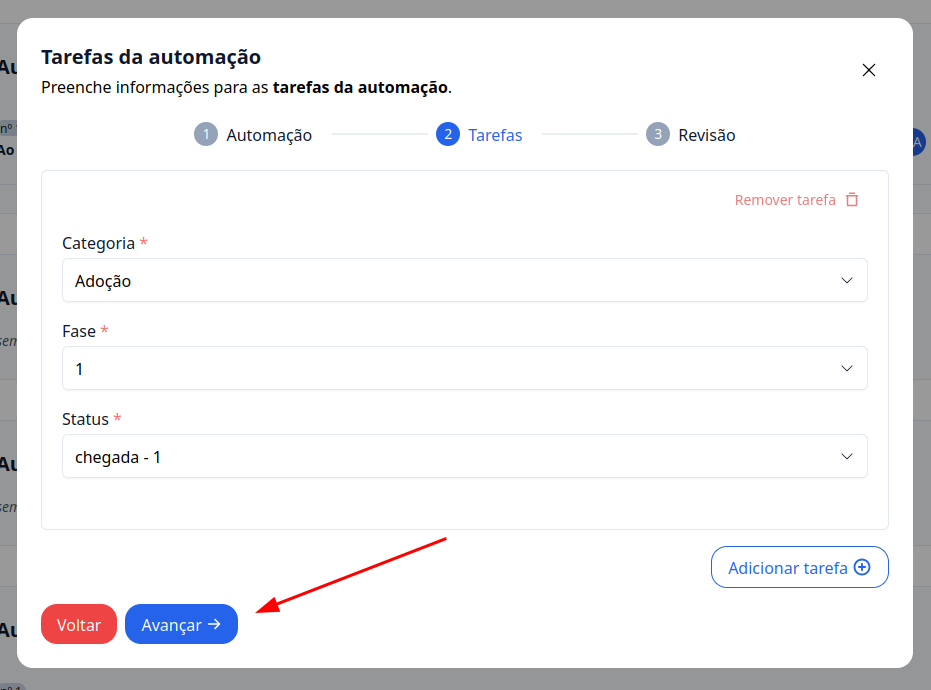
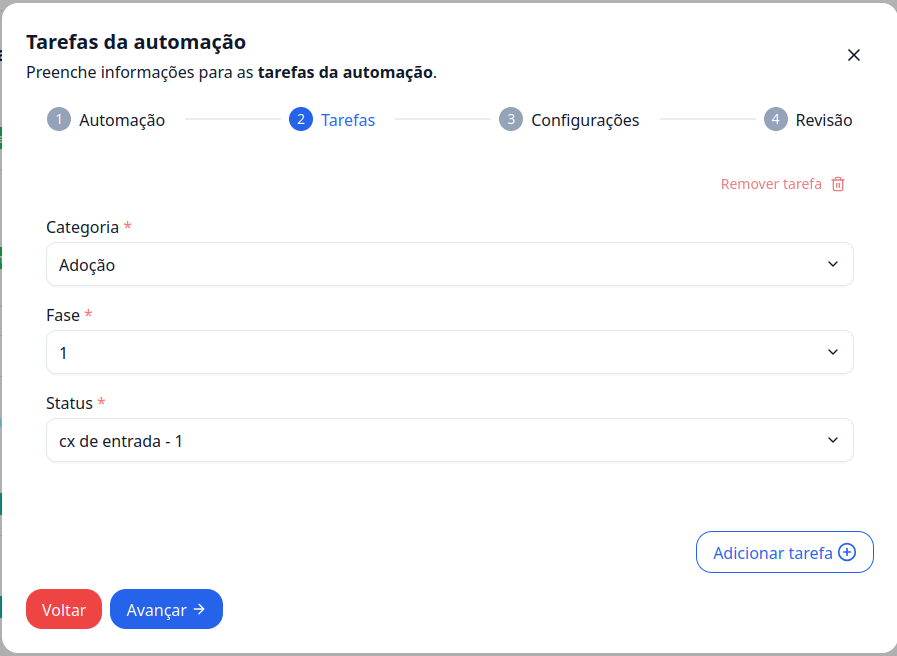
feat: improving automations processes tutorial.8705797639

diff --git a/docs/tutoriais-artigo/process-management/automations.md b/docs/tutoriais-artigo/process-management/automations.md
@@ -50,15 +50,27 @@ Clique no botão **Avançar** para continuar.
 
 ### 4. Definição de Tarefas
 
-Selecione a **Categoria**, **Fase**, e **Status** desejados para a tarefa.
+Aqui, você pode selecionar para onde deseja enviar sua tarefa. Escolha a categoria apropriada: **Adoção**, **Onboarding**, **Societário** ou **Offboarding**.
 
-Clique em **Avançar** para seguir para a próxima etapa.
+Se precisar enviar a tarefa para mais de um destino, basta clicar em **Adicionar Tarefa** e preencher os campos novamente.
+
+Quando estiver pronto, clique em **Avançar** para seguir para a próxima etapa.
 
 ![Exemplo descrito acima](./imgs/automations/example-03.png)
 
 ---
 
-### 5. Revisão e Cadastro
+### 5. Configurações
+
+Agora, selecione o **status** para o qual deseja enviar o cliente e escolha quais dados deseja incluir: **descrição**, **comentários** e **anexos**.
+
+Por fim, clique em **Confirmar** para seguir para a última etapa.
+
+![Exemplo descrito acima](./imgs/automations/example-05.png)
+
+---
+
+### 6. Revisão e Cadastro
 
 Revise as configurações da automação. Caso algo não esteja correto, clique no botão **Editar** para fazer ajustes.
 
